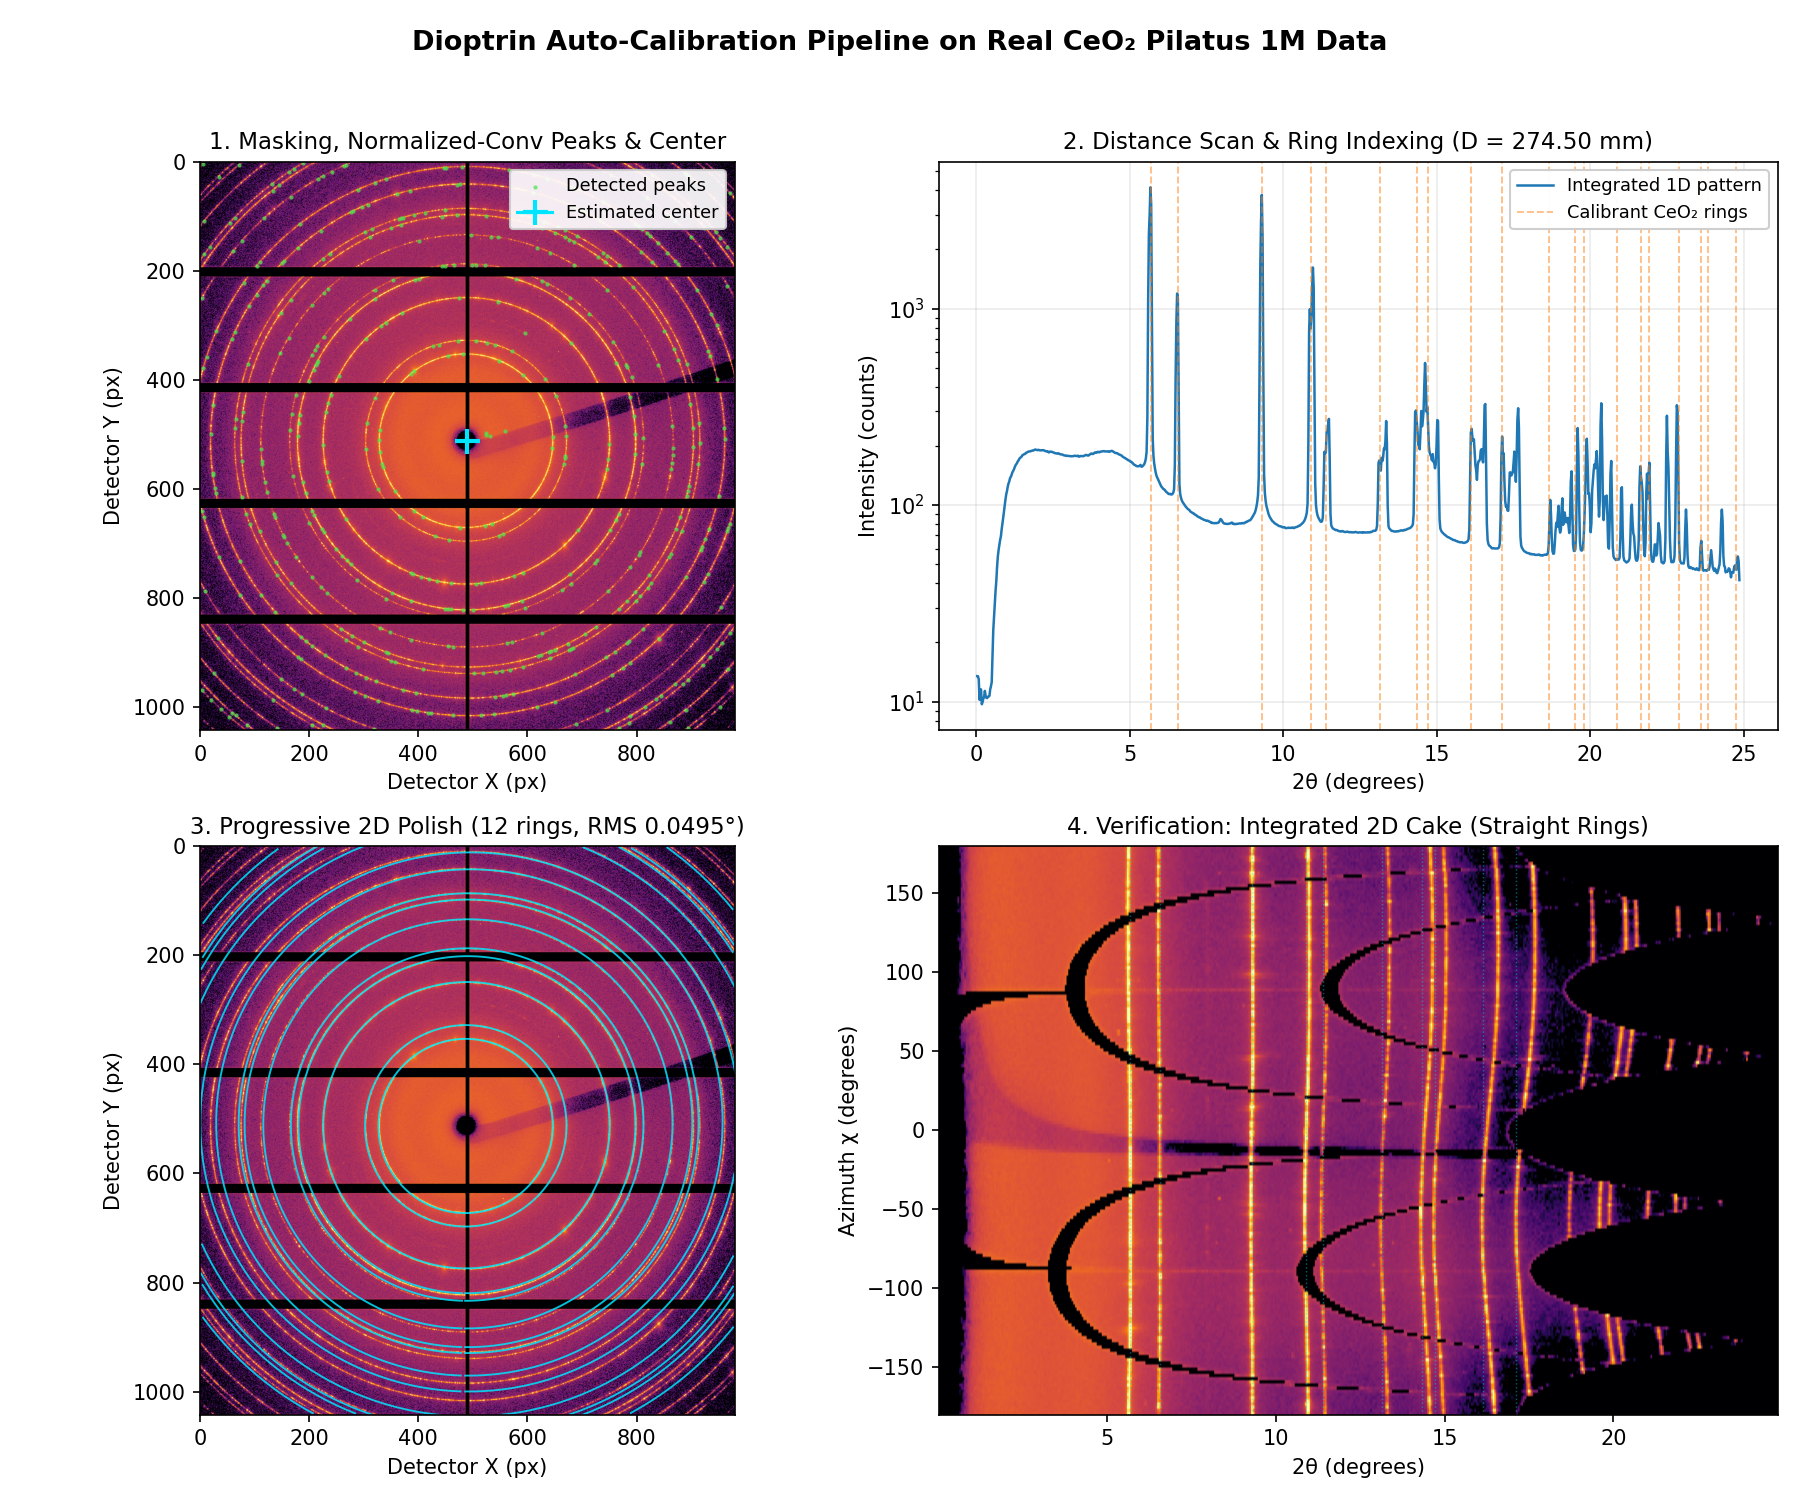
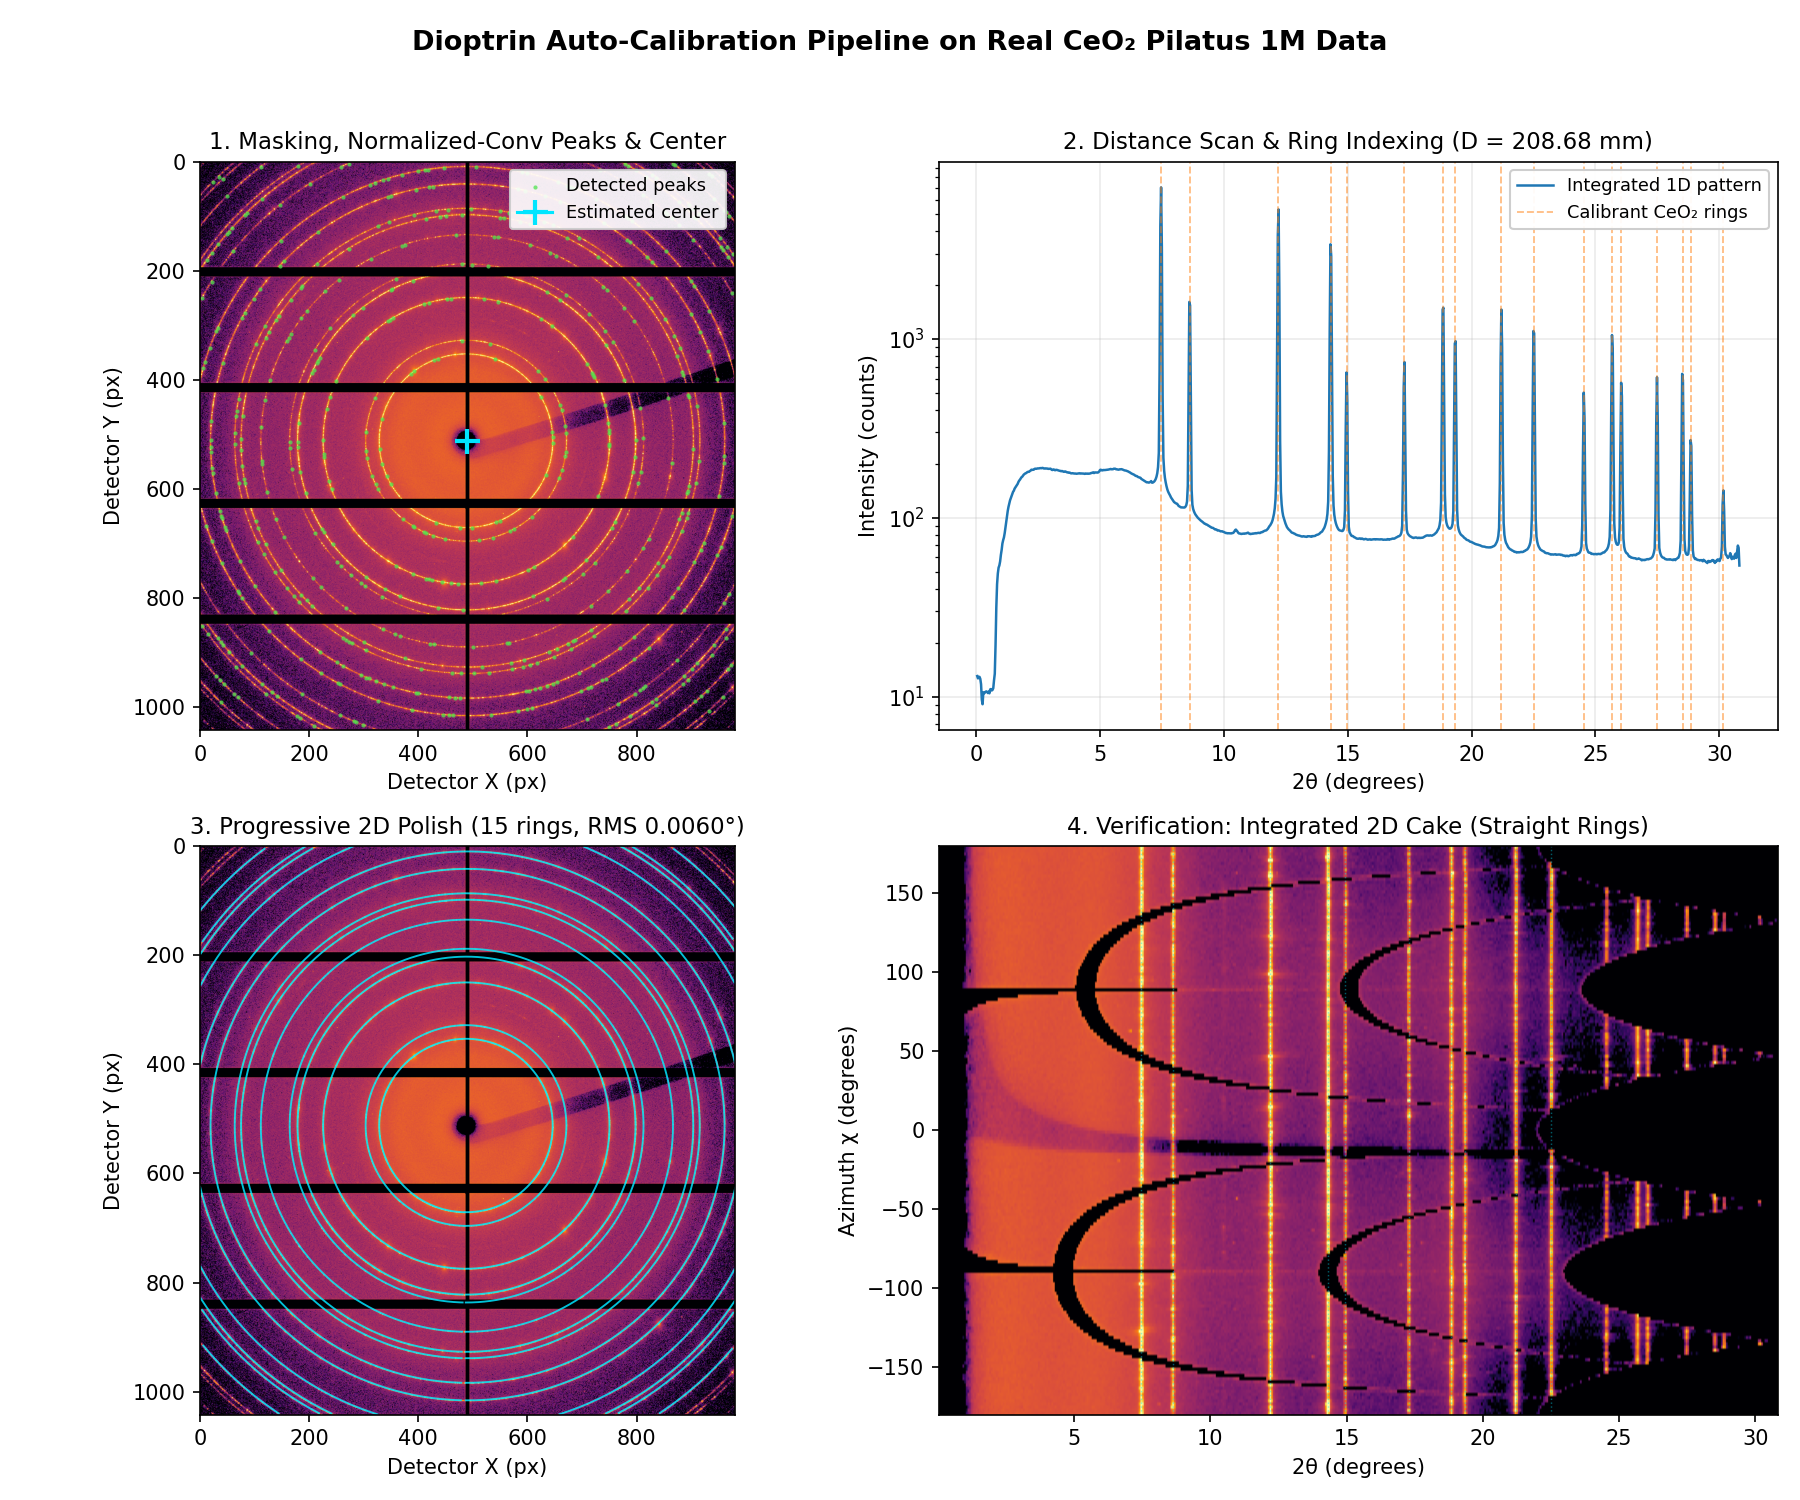
doc: regenerate auto_cal_pipeline.png with true 0.4066 A Pilatus wavelength

diff --git a/docs/auto-calibration.md b/docs/auto-calibration.md
@@ -143,7 +143,7 @@ cal = dioptrin.Calibrant.builtin("CeO2")
 result, diag = dioptrin.auto_calibrate_image(
     image,                 # 2D float64 NumPy array (dim1, dim2)
     cal,
-    wavelength=0.31e-10,   # metres
+    wavelength=0.4066e-10, # metres
     pixel1=172e-6,         # metres (row pixel size)
     pixel2=172e-6,         # metres (column pixel size; defaults to pixel1)
     starting_distance=None, # optional distance hint in metres
@@ -170,7 +170,7 @@ let (result, diag) = auto_calibrate_image_with_progress(
     frame.dim2,
     None, // optional mask: Option<&[bool]>
     &cal,
-    0.31e-10,
+    0.4066e-10,
     172e-6,
     172e-6,
     &opts,
